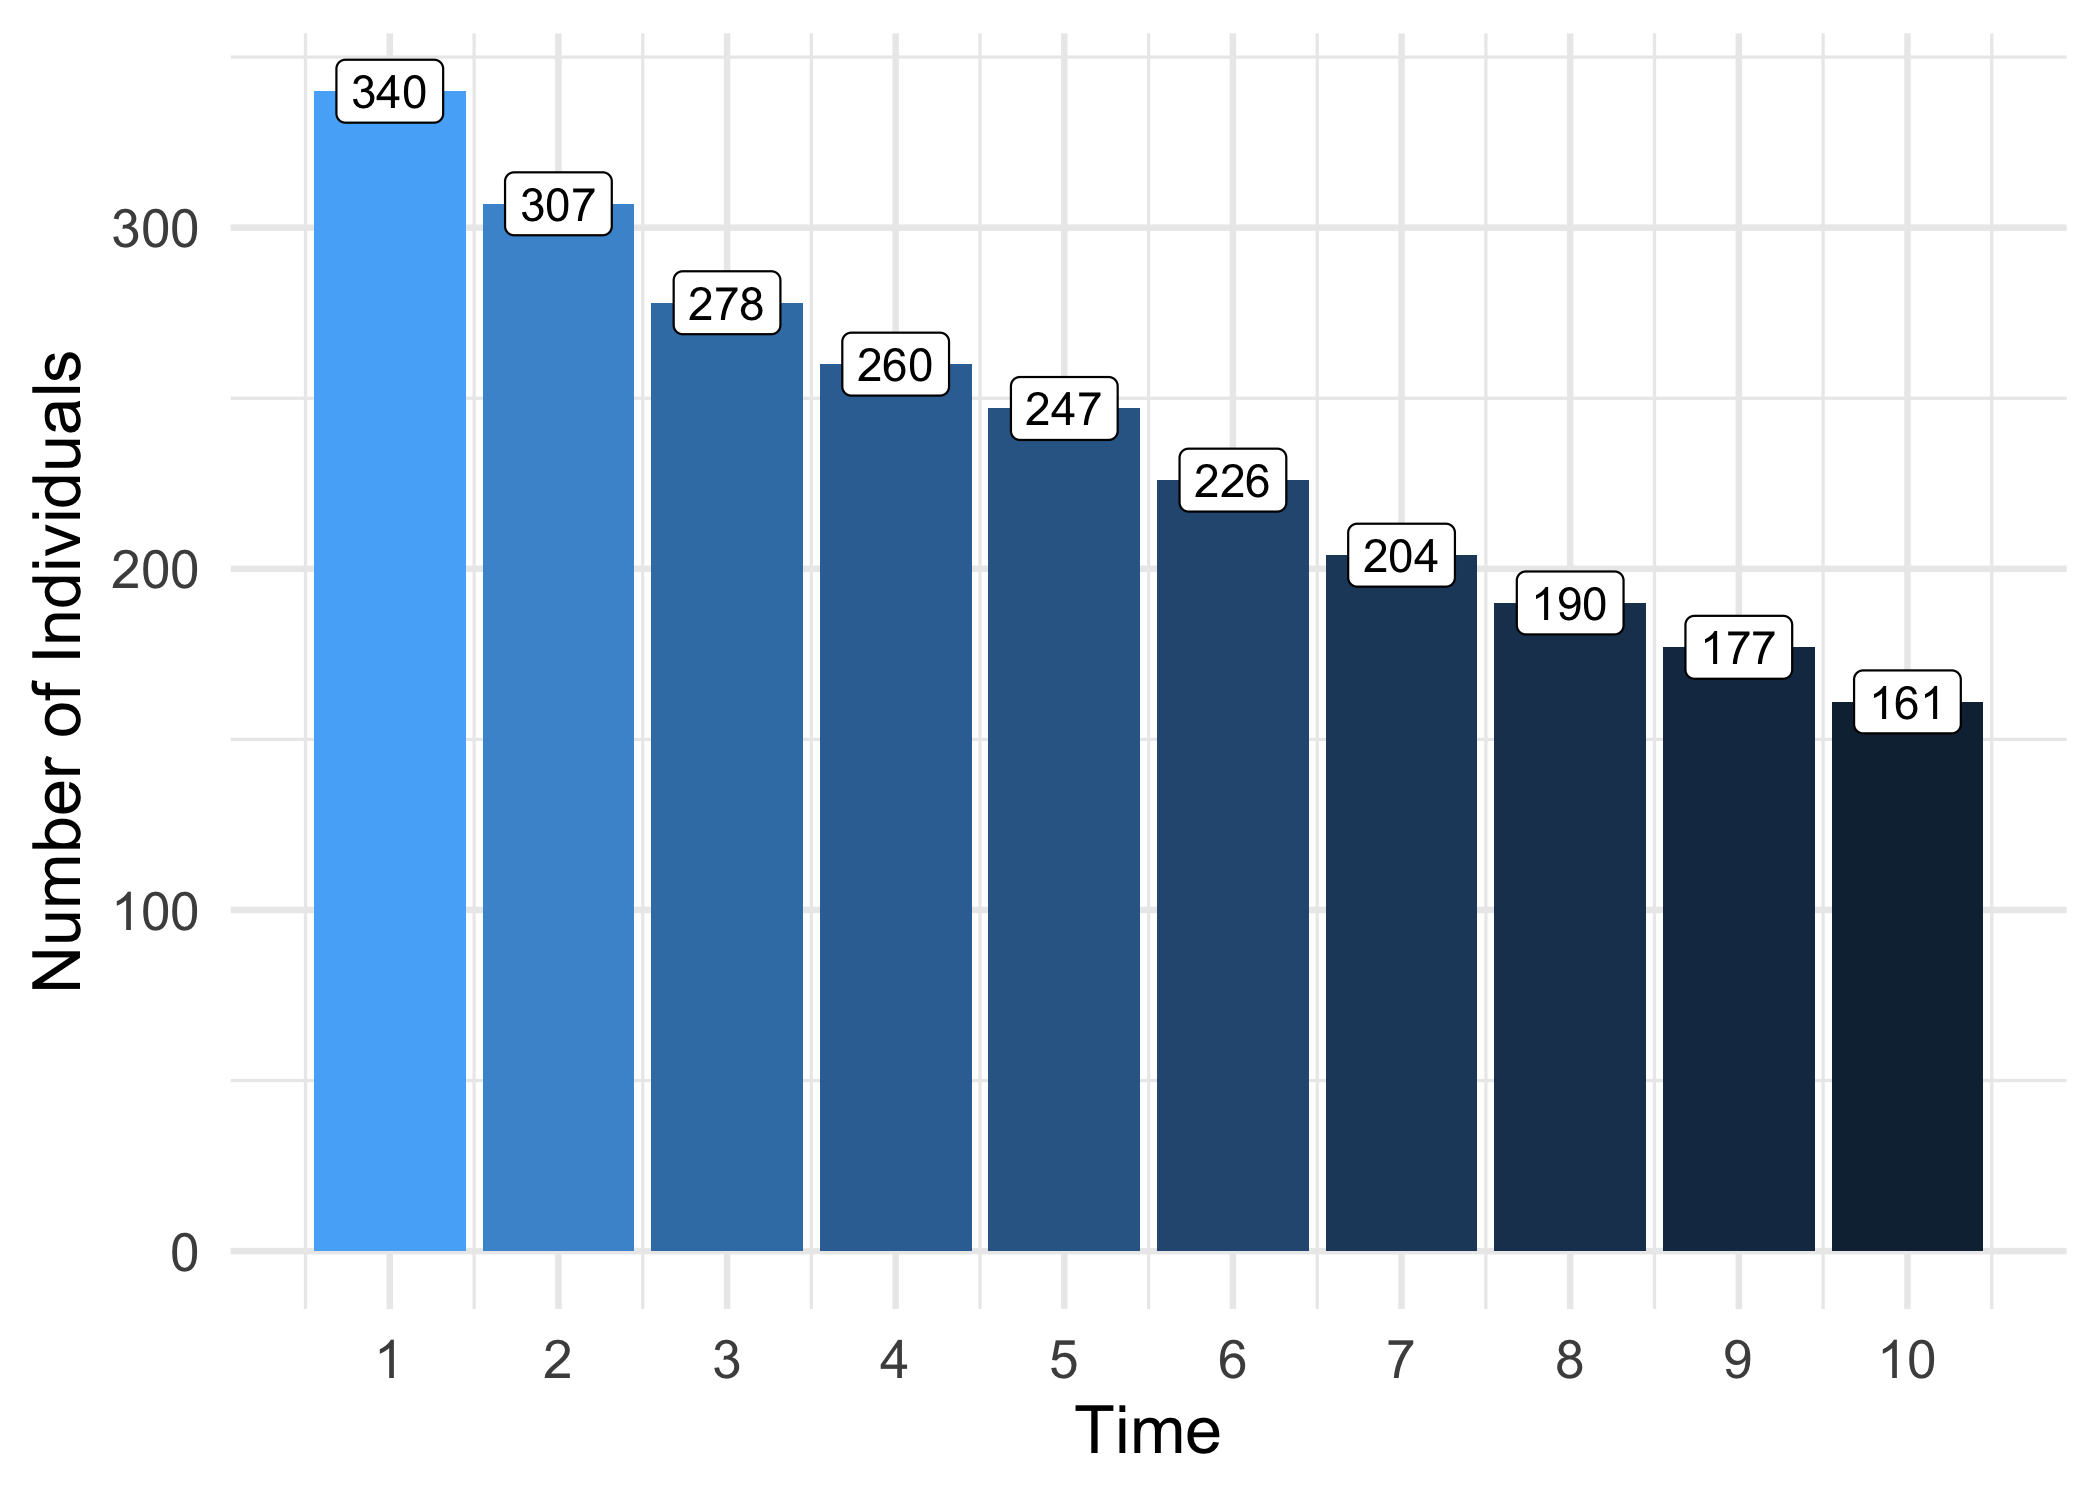
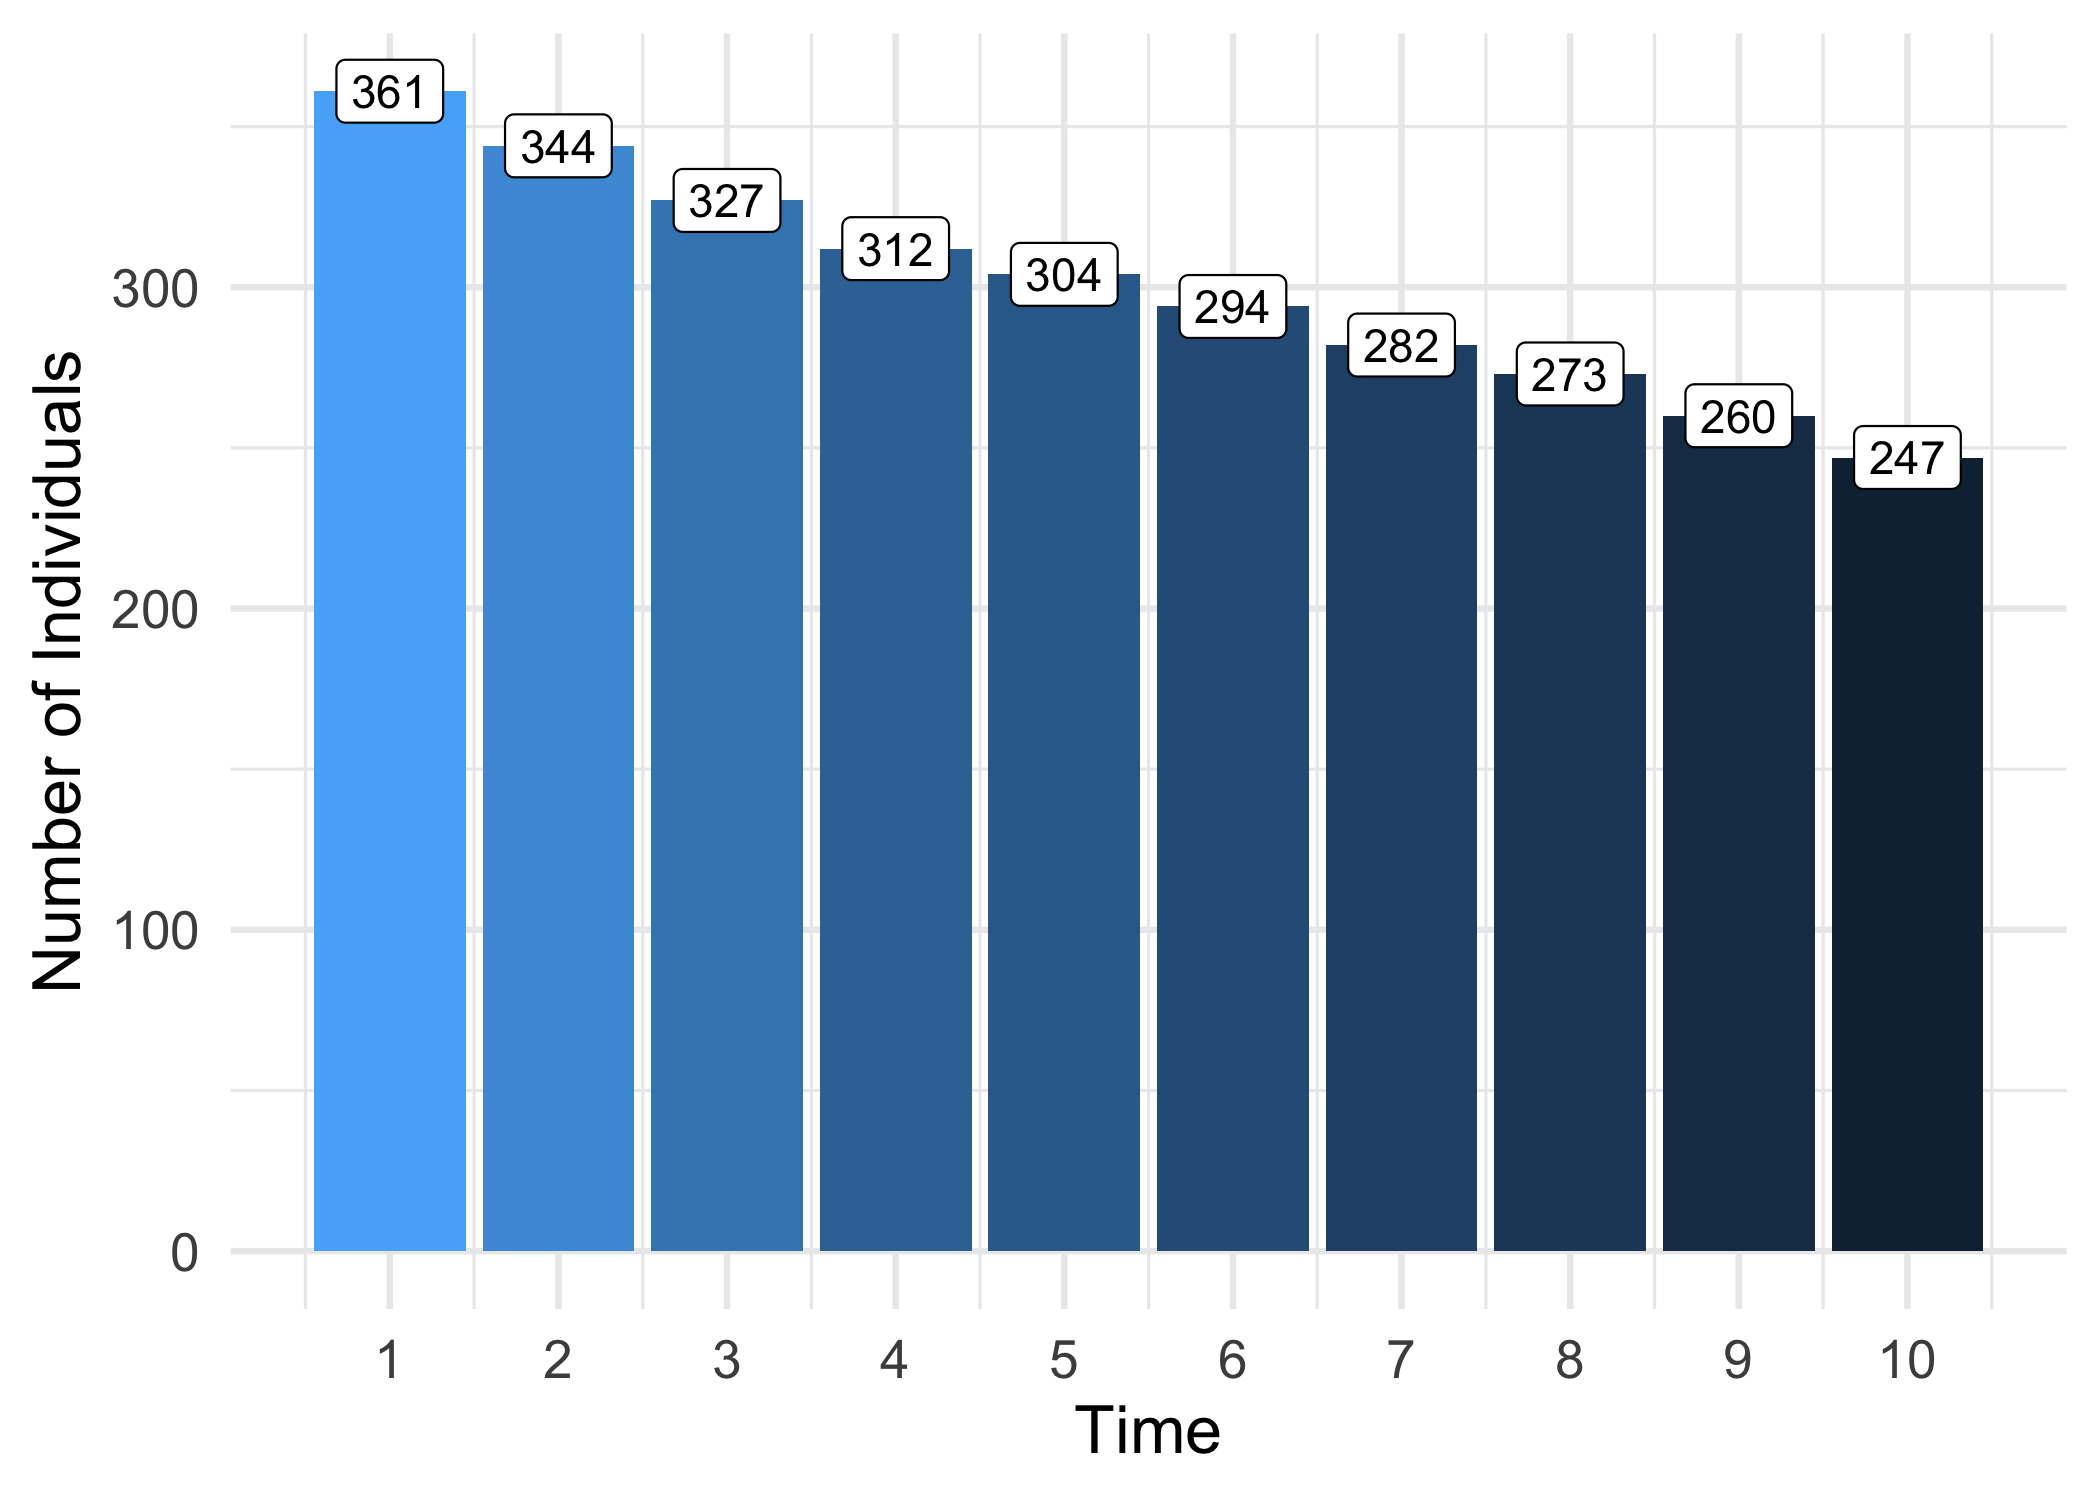
docs: update README

diff --git a/README.md b/README.md
@@ -99,61 +99,58 @@ below.
 library(dymiumCore)
 library(data.table)
 
-# create simple models
-birth_model <- list(yes = 0.1, no = 0.9)
-death_model <- list(yes = 0.1, no = 0.9)
+# create models, all individuals have 5% of dying and fertile females have 5% of giving birth
+birth_model <- death_model <- list(yes = 0.05, no = 0.95)
 
-# prepare population data
-ind_data <- 
-  data.table::copy(toy_individuals) %>%
-  .[, .give_birth := "no"]
+# prepare individual data
+ind_data <- data.table::copy(toy_individuals) %>%
+  .[, .give_birth := "no"] # add a dummy column to store birth decision
 
-# create a World object, a container for all entities and models for simulation
+# create an Individual object
+ind <- Individual$new(.data = ind_data, id_col = "pid")
+
+# create a World object
 world <- World$new()
-world$add(x = Individual$new(.data = ind_data, id_col = "pid"))
 
-# create filters, this is a method for creating functions using `magrittr` and
-# data.table's syntax
-filter_eligible_females <- 
-  . %>%
-  .[sex == "female" & age %between% c(18, 50)]
+# add the Individual object to ‘world’
+world$add(x = ind)
 
-filter_alive <- 
-  . %>%
-  .[age != -1]
+# create a pre-processing function
+filter_fertile <- function(.data) {
+  .data[age %between% c(18, 50) & sex == "female"]
+}
 
-# create a pipeline of transition events
-microsimulation_pipeline <-
-  . %>% 
+# run the microsimulation pipeline below for 10 iterations
+for (i in 1:10) {
+  world$set_time(i) %>%
     # ageing
-    mutate_entity(entity = "Individual", 
-                  age := age + 1L, 
-                  subset = age != -1L) %>%
-    # simulate birth decision
-    transition(entity = "Individual", 
-               model = birth_model, 
-               attr = ".give_birth", 
-               preprocessing_fn = filter_eligible_females) %>%
-    # add newborns
-    add_entity(entity = "Individual", 
-               newdata = toy_individuals[age == 0, ], 
+    mutate_entity(entity = "Individual",
+                  age := age + 1L) %>%
+    # simulate giving birth
+    transition(entity = "Individual",
+               model = birth_model,
+               attr = ".give_birth",
+               preprocessing_fn = filter_fertile) %>%
+    # add newborns, by cloning children of age 0
+    add_entity(entity = "Individual",
+               newdata = ind_data[age == 0, ],
+               check_relationship_id_cols = FALSE,
                target = .$entities$Individual$get_data()[.give_birth == "yes", .N]) %>%
     # reset the birth decision variable
-    mutate_entity(entity = "Individual", 
-                  .give_birth := "no", 
-                  subset = age != -1L) %>%
-    # simulate deaths
-    transition(entity = "Individual", 
-               model = death_model, 
-               attr = "age", 
-               values = c(yes = -1L), 
-               preprocessing_fn = filter_alive) %>%
+    mutate_entity(entity = "Individual",
+                  .give_birth := "no") %>%
+    # simulate dying
+    transition(entity = "Individual",
+               model = death_model,
+               attr = "age",
+               values = c(yes = -1L)) %>%
+    # remove dead individuals
+    remove_entity(entity = "Individual",
+                  subset = age == -1) %>%
     # log the total number of alive individuals at the end of the iteration
-    add_log(desc = "count:Individual", 
-            value = .$entities$Individual$get_data()[age != -1L, .N])
-
-# compile and execute
-sim(world = world, pipeline = microsimulation_pipeline, n_iters = 10)
+    add_log(desc = "count:Individual",
+            value = .$entities$Individual$get_data()[, .N])
+}
 ```
 
 > Note that, the line `value = .$entities$Individual$get_data()[age !=
@@ -168,17 +165,17 @@ method.
 ``` r
 world$entities$Individual$get_data()
 #>      pid hid age    sex marital_status partner_id father_id mother_id
-#>   1:   1   1  -1   male  never married         NA        NA        NA
-#>   2:   2   2  -1 female  never married         NA        NA        NA
-#>   3:   3   2  -1 female  never married         NA        NA        NA
-#>   4:   4   3  -1   male        married          5        NA        NA
-#>   5:   5   3  -1 female        married          4        NA        NA
+#>   1:   1   1  81   male  never married         NA        NA        NA
+#>   2:   2   2  41 female  never married         NA        NA        NA
+#>   3:   4   3  48   male        married          5        NA        NA
+#>   4:   6   3  10   male not applicable         NA         4         5
+#>   5:   8   4  62 female        married          7        NA        NA
 #>  ---                                                                 
-#> 418: 418  43   3   male not applicable         NA        NA       108
-#> 419: 419   3   2   male not applicable         NA         4         5
-#> 420: 420  39   2 female not applicable         NA        96        97
-#> 421: 421  72   2 female not applicable         NA       184       185
-#> 422: 422  72   1 female not applicable         NA       184       185
+#> 243: 400  39   0 female not applicable         NA        96        97
+#> 244: 401  39   0 female not applicable         NA        96        97
+#> 245: 402  39   0 female not applicable         NA        96        97
+#> 246: 403  39   0 female not applicable         NA        96        97
+#> 247: 404   3   0   male not applicable         NA         4         5
 #>      .give_birth
 #>   1:          no
 #>   2:          no
@@ -186,11 +183,11 @@ world$entities$Individual$get_data()
 #>   4:          no
 #>   5:          no
 #>  ---            
-#> 418:          no
-#> 419:          no
-#> 420:          no
-#> 421:          no
-#> 422:          no
+#> 243:          no
+#> 244:          no
+#> 245:          no
+#> 246:          no
+#> 247:          no
 ```
 
 The `add_log()` function allows any object to be stored in our World
@@ -208,16 +205,16 @@ log_data <-
   .[, value := unlist(value)]
 print(log_data)
 #>     time created_timestamp class  tag             desc value
-#>  1:    1        1585854944 World <NA> count:Individual   340
-#>  2:    2        1585854944 World <NA> count:Individual   307
-#>  3:    3        1585854944 World <NA> count:Individual   278
-#>  4:    4        1585854944 World <NA> count:Individual   260
-#>  5:    5        1585854944 World <NA> count:Individual   247
-#>  6:    6        1585854944 World <NA> count:Individual   226
-#>  7:    7        1585854944 World <NA> count:Individual   204
-#>  8:    8        1585854944 World <NA> count:Individual   190
-#>  9:    9        1585854944 World <NA> count:Individual   177
-#> 10:   10        1585854944 World <NA> count:Individual   161
+#>  1:    1        1589784925 World <NA> count:Individual   361
+#>  2:    2        1589784925 World <NA> count:Individual   344
+#>  3:    3        1589784925 World <NA> count:Individual   327
+#>  4:    4        1589784925 World <NA> count:Individual   312
+#>  5:    5        1589784925 World <NA> count:Individual   304
+#>  6:    6        1589784925 World <NA> count:Individual   294
+#>  7:    7        1589784925 World <NA> count:Individual   282
+#>  8:    8        1589784925 World <NA> count:Individual   273
+#>  9:    9        1589784925 World <NA> count:Individual   260
+#> 10:   10        1589784925 World <NA> count:Individual   247
 ```
 
 Let’s visualise how many individual agents are still alive at the end of
@@ -271,14 +268,14 @@ please email us at amarin at dymium.org.
     blocks for microsimulation modelling.
       - [x] **Version 0.1.6**: Support `mlr` in `transision()` and
         `TransitionClassification`.
-      - [x] **Version 0.1.7**: Introduce simpler APIs
+      - [x] **Version 0.1.7 & 0.1.8** : Introduce simpler APIs
         (`mutate_entity()`, `add_entity()`, `add_log()`, `transition()`)
         for creating simple microsimulation pipelines.
-      - [ ] **Version 0.1.8**: Support regression model creation from
+      - [ ] **Version 0.1.9**: Support regression model creation from
         parameters.
-      - [ ] **Version 0.1.9**: Support `mlr3` and `mlogit` model objects
-        in the Transition classes.
-      - [ ] **Version 0.1.10**: Support multiple choice models
+      - [ ] **Version 0.1.10**: Support `mlr3` and `mlogit` model
+        objects in the Transition classes.
+      - [ ] **Version 0.1.11**: Support multiple choice models
         (multinomial logit models (MNL) and MNL with varying
         alternatives) with utility functions for sampling and
         simulation. This will be the last milestone for version 0.1.
@@ -324,3 +321,13 @@ use cases please see these articles.
     Decision Making, 31(1), 10-18.
   - GouuAs, K. G., & Kitamura, R. (1992). Travel demand forecasting with
     dynamic microsimulation.
+
+## Dependencies
+
+``` r
+library(deepdep)
+dd <- deepdep::deepdep("dymiumCore", local = T, depth = 3)
+deepdep::plot_dependencies(dd)
+```
+
+<img src="man/figures/README-deepdep-fig-1.png" width="100%" />
